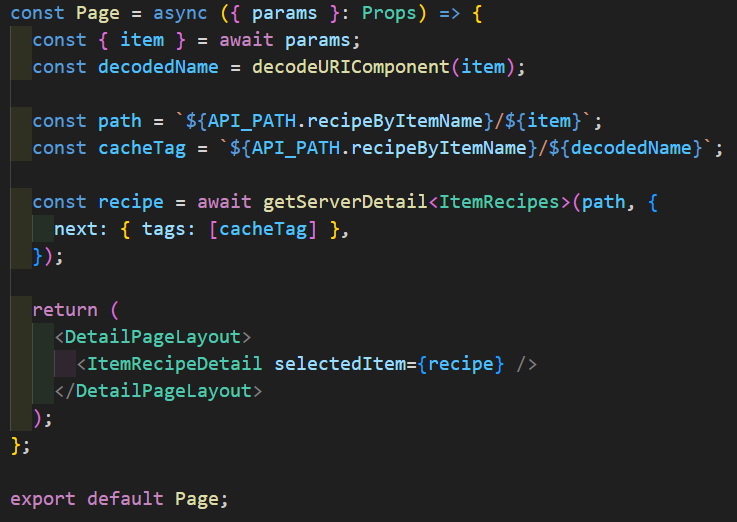
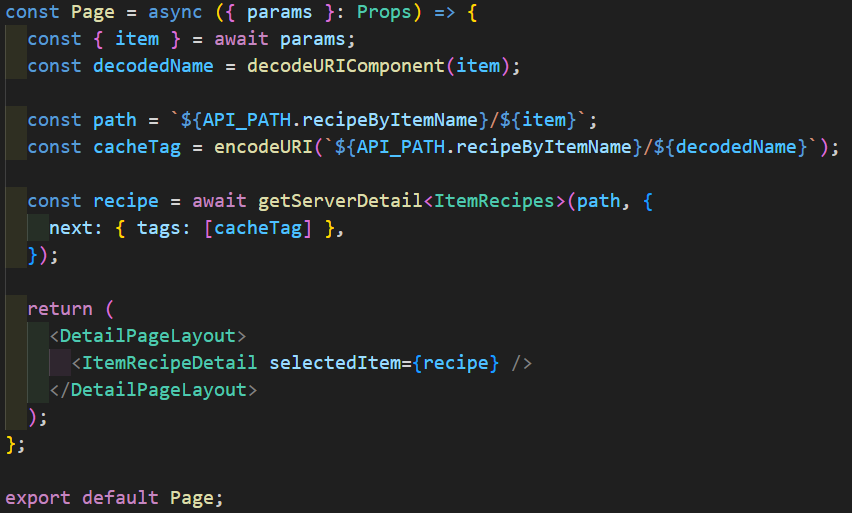
docs: x-next-cache-tags 내용 추가

diff --git a/README.md b/README.md
@@ -446,7 +446,7 @@ npm run start      # 성공한 빌드 이후 프로덕션 서버 실행
 | 성공   | `200`, `{ revalidated: true, tag, now }`                                 |
 | 실패   | 비밀값 불일치·허용되지 않은 태그 `401`, 태그 누락 `400`, 처리 오류 `500` |
 
-목록·상세·사이트맵 조회의 태그는 서로 다릅니다. 상세 태그는 URL 디코딩한 이름을 사용하며, 요청 쿼리를 만들 때 전체 태그를 인코딩해야 합니다.
+목록·상세·사이트맵 조회의 태그는 서로 다릅니다. 상세 페이지는 이름을 디코딩해 원본 태그를 만든 뒤, `encodeURI`로 인코딩한 값을 캐시 태그로 등록합니다. 한글이 Next.js의 `x-next-cache-tags` 응답 헤더에 그대로 포함되어 Vercel에서 `ERR_INVALID_CHAR`가 발생하는 것을 방지하기 위한 처리입니다.
 
 | 데이터                              | 조회 시 사용하는 태그              | 현재 재검증 API 허용 여부 |
 | ----------------------------------- | ---------------------------------- | ------------------------- |
